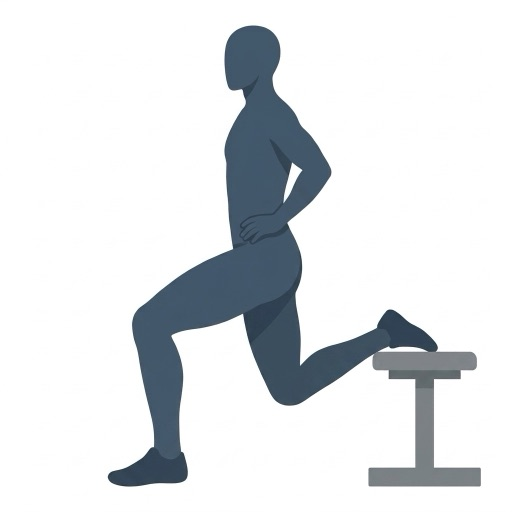
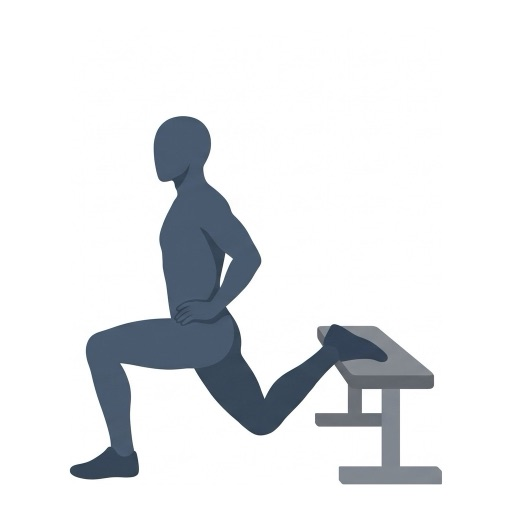
TrainingAssistant 0.7.2: neue Bilder für Bulgarian Split Squat

Changed region(s): [[0.125, 0.0312, 0.9375, 0.9688]]

diff --git a/custom_components/training_assistant/frontend/training-assistant-card.js b/custom_components/training_assistant/frontend/training-assistant-card.js
@@ -3,7 +3,7 @@
  * Wird von der Integration automatisch geladen (keine Ressource nötig).
  * Karte im Dashboard: type: custom:training-assistant-card
  */
-const CARD_VERSION = "0.7.1";
+const CARD_VERSION = "0.7.2";
 const DOMAIN = "training_assistant";
 
 /* ------------------------------------------------------------------ Sprachen

diff --git a/custom_components/training_assistant/const.py b/custom_components/training_assistant/const.py
@@ -1,7 +1,7 @@
 """Konstanten für TrainingAssistant."""
 
 DOMAIN = "training_assistant"
-VERSION = "0.7.1"
+VERSION = "0.7.2"
 
 # Version des Importformats für Trainingspläne (siehe schema/plan.schema.json)
 PLAN_SCHEMA_VERSION = 1

diff --git a/CHANGELOG.md b/CHANGELOG.md
@@ -4,6 +4,13 @@ All notable changes to TrainingAssistant. Versions follow [Semantic Versioning](
 patch = fixes, minor = new features, major = stable milestone.
 Deutsche Fassung jeweils darunter.
 
+## 0.7.2 – 2026-11-11
+
+- New pictures for Bulgarian Split Squat (both figures): the end position now shows the deep squat instead of the same
+  height.
+  *Deutsch:* Neue Bilder für Bulgarian Split Squat (beide Figuren): Das Endbild zeigt jetzt die tiefe Position statt
+  derselben Höhe.
+
 ## 0.7.1 – 2026-11-11
 
 - Fix: exercise pictures are always shown in full (head, feet and equipment are no longer cut off), in the current
